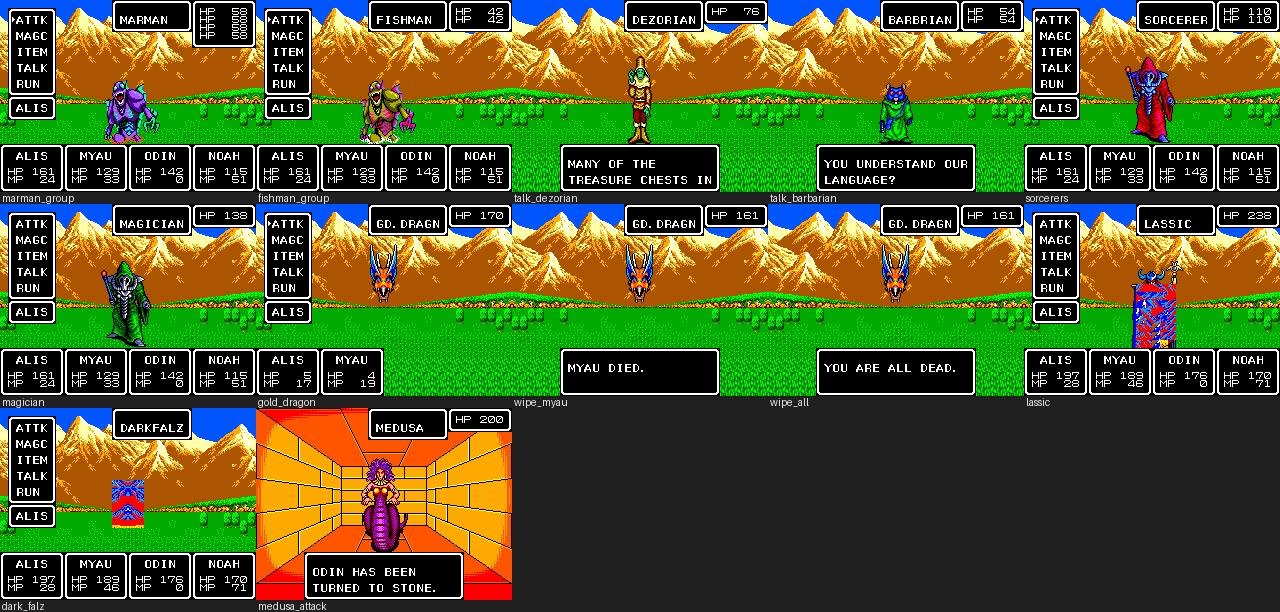
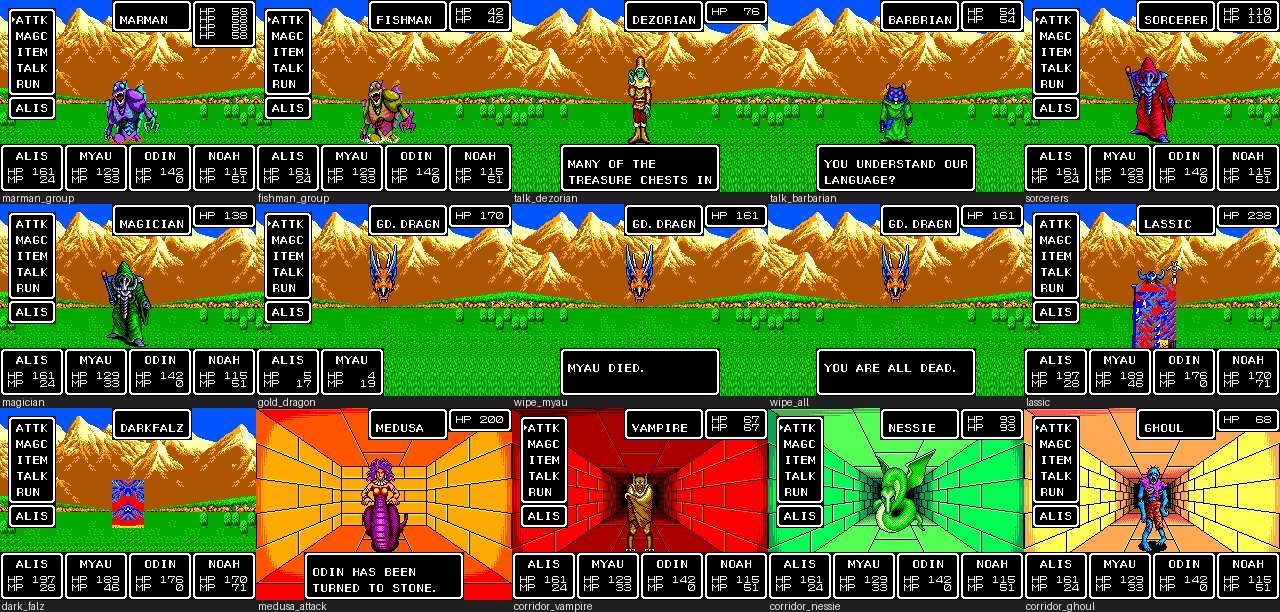
Phantasy Star (SMS): three battles in front of long dungeon corridors
Forced FIGHT always uses the field backdrop; real dungeon encounters keep the
3D view. Warp to the start of a 13-square corridor and step until an
encounter: Vampire (red), Nessie (green), Ghoul (yellow). battles set 15/15
from an empty cache; recipe in the playbook.

Claude-Session: https://claude.ai/code/session_011YfKeidMPFehpNXVkxX66i

Changed region(s): [[0.375, 0.652, 1.0, 1.0]]

diff --git a/games/sms/phantasy-star/shots/battles/index.md b/games/sms/phantasy-star/shots/battles/index.md
@@ -1,6 +1,6 @@
 # Phantasy Star - shots: battles
 
-Platform sms, region na, model ntsc, ROM SHA-1 `257ca76ebcd54c75a414ca7ce968fa59ea42f150`. 12 shots. Contact sheet: [phantasy-star_sms_na_set_sheet.battles.png](phantasy-star_sms_na_set_sheet.battles.png). Originals here, 3x nearest-neighbour copies with the same names in `3x/`. File names: `<game>_<platform>_<region>_<category>_<id>.battles.png`.
+Platform sms, region na, model ntsc, ROM SHA-1 `257ca76ebcd54c75a414ca7ce968fa59ea42f150`. 15 shots. Contact sheet: [phantasy-star_sms_na_set_sheet.battles.png](phantasy-star_sms_na_set_sheet.battles.png). Originals here, 3x nearest-neighbour copies with the same names in `3x/`. File names: `<game>_<platform>_<region>_<category>_<id>.battles.png`.
 
 | id | category | caption | settled | image |
 |---|---|---|---|---|
@@ -16,5 +16,8 @@ Platform sms, region na, model ntsc, ROM SHA-1 `257ca76ebcd54c75a414ca7ce968fa59
 | lassic | boss | Lassic (HP 238), forced encounter: the field background, not his castle | no | [png](phantasy-star_sms_na_boss_lassic.battles.png) [3x](3x/phantasy-star_sms_na_boss_lassic.battles.png) |
 | dark_falz | boss | Dark Falz, forced encounter: he dodges every blow outside his chamber | no | [png](phantasy-star_sms_na_boss_dark_falz.battles.png) [3x](3x/phantasy-star_sms_na_boss_dark_falz.battles.png) |
 | medusa_attack | boss | Medusa's gaze: "Odin has been turned to stone." (clip) | clip | [png](phantasy-star_sms_na_boss_medusa_attack.battles.png) [3x](3x/phantasy-star_sms_na_boss_medusa_attack.battles.png) [gif](phantasy-star_sms_na_boss_medusa_attack.battles.gif) [gif 3x](3x/phantasy-star_sms_na_boss_medusa_attack.battles.gif) |
+| corridor_vampire | battle | A Vampire in a red dungeon, the corridor running on far behind it | no | [png](phantasy-star_sms_na_battle_corridor_vampire.battles.png) [3x](3x/phantasy-star_sms_na_battle_corridor_vampire.battles.png) |
+| corridor_nessie | battle | Nessie in a long green corridor, the walls receding to the far end | no | [png](phantasy-star_sms_na_battle_corridor_nessie.battles.png) [3x](3x/phantasy-star_sms_na_battle_corridor_nessie.battles.png) |
+| corridor_ghoul | battle | A Ghoul in a long yellow corridor, a dozen squares of passage behind it | no | [png](phantasy-star_sms_na_battle_corridor_ghoul.battles.png) [3x](3x/phantasy-star_sms_na_battle_corridor_ghoul.battles.png) |
 
 Routes (replay with `tools/shoot.py`) are in `index.json` and `shots.txt`.

diff --git a/games/sms/phantasy-star/playbook.md b/games/sms/phantasy-star/playbook.md
@@ -157,7 +157,7 @@ All verified from an empty cache (sets `main` 109, `battles` 12, `seq-dungeon-*`
 | `WARP:MM:XXXX:YYYY` | town or overworld warp: writes `C300-C307` (X, Y little-endian pixels), `C308`=`C309`=map, then `C202`=08 (the game's own "enter map" state) | towns of another planet need one step after it (`up:16,w60`) before the picture is complete |
 | `OWARP:MM:XXXX:YYYY` | the same with `C308`=00 | the menu picture and vehicles still think it is a town: use the real overworld (`@palma`) for vehicles |
 | `DUN:FF:SQ:DD` | dungeon warp: floor `C30D`, square `C30C` (row, column nibbles), facing `C30A` (0 N, 1 E, 2 S, 3 W), light `C315`=04, `C202`=0A | 61 floors (00-3C); stand next to an event square and `up:1` to trigger it |
-| `FIGHT:ID` | any monster: `C2E6`=id, `C29D`=FF, `C202`=0C | background = the place the route came from (mountains after a DUN from a town); boss squares give the real dungeon background |
+| `FIGHT:ID` | any monster: `C2E6`=id, `C29D`=FF, `C202`=0C | background = the place the route came from (mountains after a DUN from a town); boss squares give the real dungeon background. It always switches to field-battle mode (`C202`=0D) with the mountain backdrop, even from a properly entered dungeon. For a battle in front of a long corridor use a real encounter instead: dungeon battles stay in mode 0B and keep the 3D view. Warp to the start of a 13-square corridor (2B:ED, 18:EE, 25:E8, 16:E4, all facing 0), vary a short wait, then `up:1,w40` steps; an encounter at step 1-2 leaves about 12 squares of passage in view (`battles`: corridor_vampire / _nessie / _ghoul). Detect a dungeon battle by `C441` (first monster's HP) becoming nonzero, not by `C202` |
 | `PARTY1`..`PARTY5` | the party records from the ROM level tables (levels 9 / 12,10 / 15,13,14 / 19,17,18,16 / 26,25,26,24) with equipment, HP a little under max, `C4F0` = members - 1 | built by `tools/party.py` in the game folder (ROM `F8AF`, item powers `183A`) |
 | `INV1`..`INV5` | realistic inventories and meseta per stage | |
 Map ids (`C309`): 00 Palma, 01 Motavia, 02 Dezoris surface; 04 Camineet (with the spaceport and Parolit in the same
